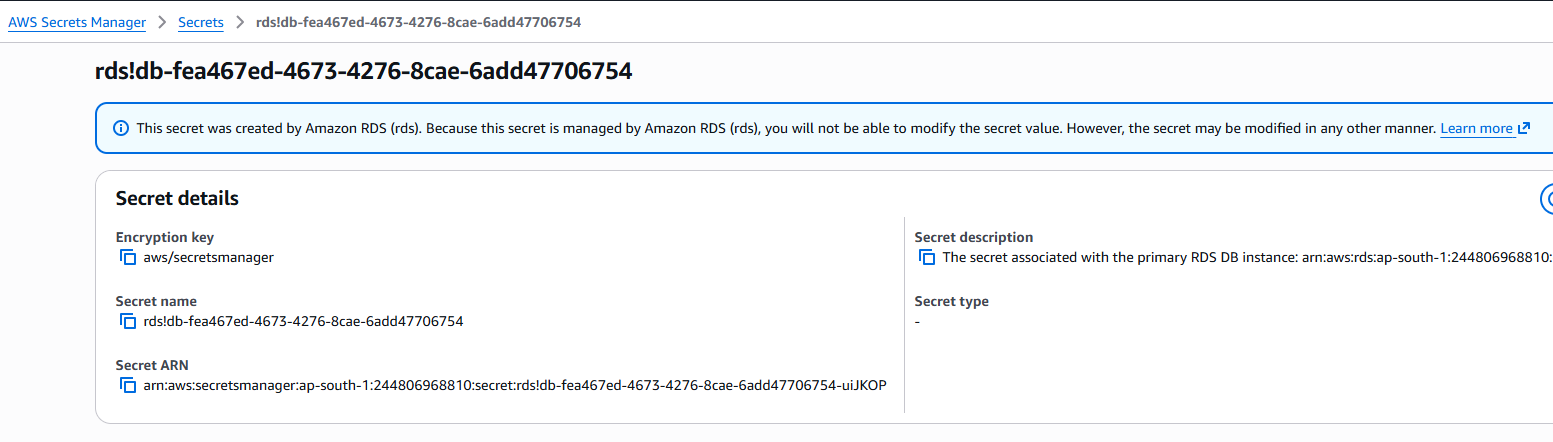
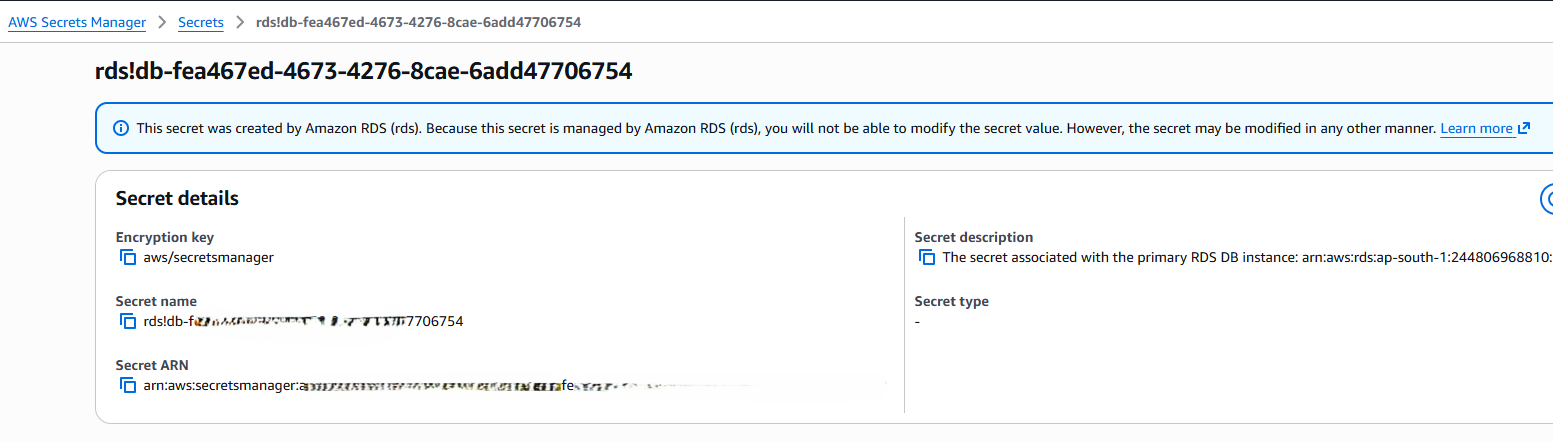
second commit

Changed region(s): [[0.1854, 0.8529, 0.5873, 0.8824], [0.1236, 0.7059, 0.2782, 0.7353]]

diff --git a/README.md b/README.md
@@ -3,6 +3,9 @@
 A production-style web application architecture built on AWS using a multi-tier network design, private compute, managed PostgreSQL, load balancing, IAM, Secrets Manager, CloudWatch, and Terraform.
 
 ## Architecture
+![Image Alt](https://github.com/LuthiraPeiris/aws-web-architecture/blob/c16d1aa14c47cbea2330d452eb9ed749a33cc556/docs/architecture.png)
+
+## Architecture Overview
 
 ```text
                          Internet
